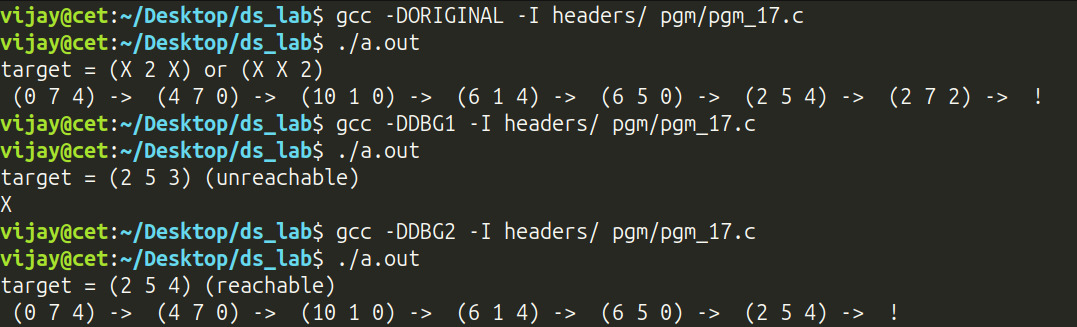
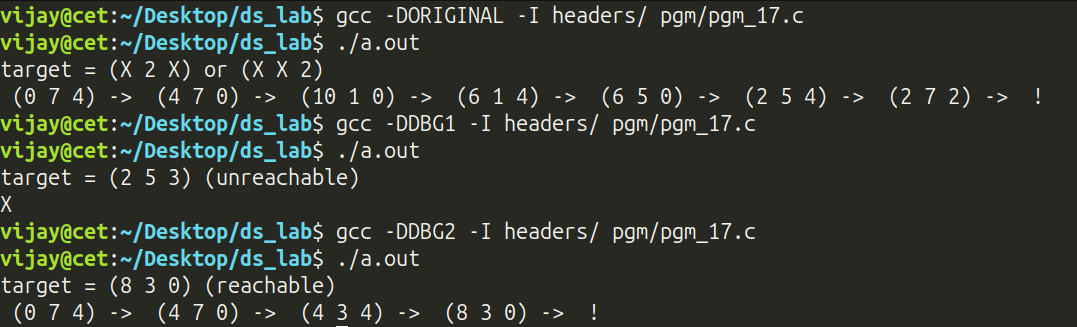
refactor: improved sample input

Changed region(s): [[0.2758, 0.9174, 0.7967, 1.0], [0.0919, 0.8563, 0.1838, 0.8869]]

diff --git a/pgm/pgm_17.c b/pgm/pgm_17.c
@@ -123,7 +123,7 @@ int istarget(const state_t s) {
     return s.c10 == 2 && s.c7 == 5 && s.c4 == 3; // unreachable
 #endif
 #ifdef DBG2
-    return s.c10 == 2 && s.c7 == 5 && s.c4 == 4; // reachable
+    return s.c10 == 8 && s.c7 == 3 && s.c4 == 0; // reachable
 #endif
     return 0;
 }
@@ -141,7 +141,7 @@ int main() {
             "target = (2 5 3) (unreachable)\n"
 #endif
 #ifdef DBG2
-            "target = (2 5 4) (reachable)\n"
+            "target = (8 3 0) (reachable)\n"
 #endif
             ""
           );
